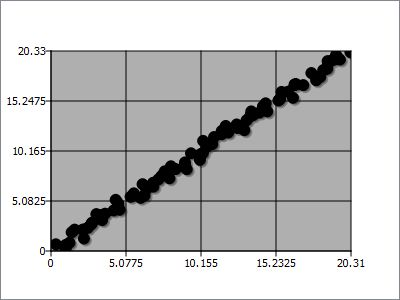
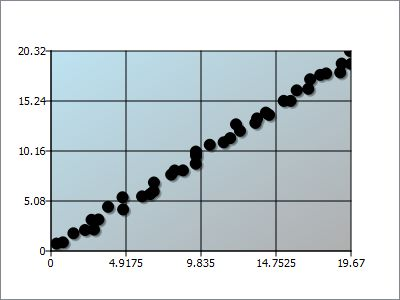
Tuning scatter examples and screens

diff --git a/example/scatter/main.cpp b/example/scatter/main.cpp
@@ -14,10 +14,9 @@ int main(int argc, char *argv[])
     // Create chart view
     QChartView *chartView = new QChartView();
     chartView->setRenderHint(QPainter::Antialiasing);
-    chartView->setChartTheme(QChart::ChartThemeScientific);
     // Add scatter series with linear test data with random "noise"
     QScatterSeries *scatter = new QScatterSeries();
-    for (qreal i(0.0); i < 20; i += 0.25) {
+    for (qreal i(0.0); i < 20; i += 0.5) {
         qreal x = i + (qreal)(rand() % 100) / 100.0;
         qreal y = i + (qreal)(rand() % 100) / 100.0;
         (*scatter) << QPointF(x, y);
@@ -28,7 +27,7 @@ int main(int argc, char *argv[])
 
     // And more
     //! [2]
-    //*scatter << QPointF(2.0, 5.5) << QPointF(2.2, 5.4);
+    *scatter << QPointF(2.0, 5.5) << QPointF(2.2, 5.4);
     //! [2]
 
     //! [3]
@@ -37,7 +36,7 @@ int main(int argc, char *argv[])
     QPen pen(QColor(0, 255, 0, 60), 3);
     scatter->setPen(pen);
     scatter->setShape(QScatterSeries::MarkerShapeRectangle);
-    scatter->setSize(15.0);
+    scatter->setSize(25.0);
     //! [3]
 
     // Use the chart widget as the central widget
